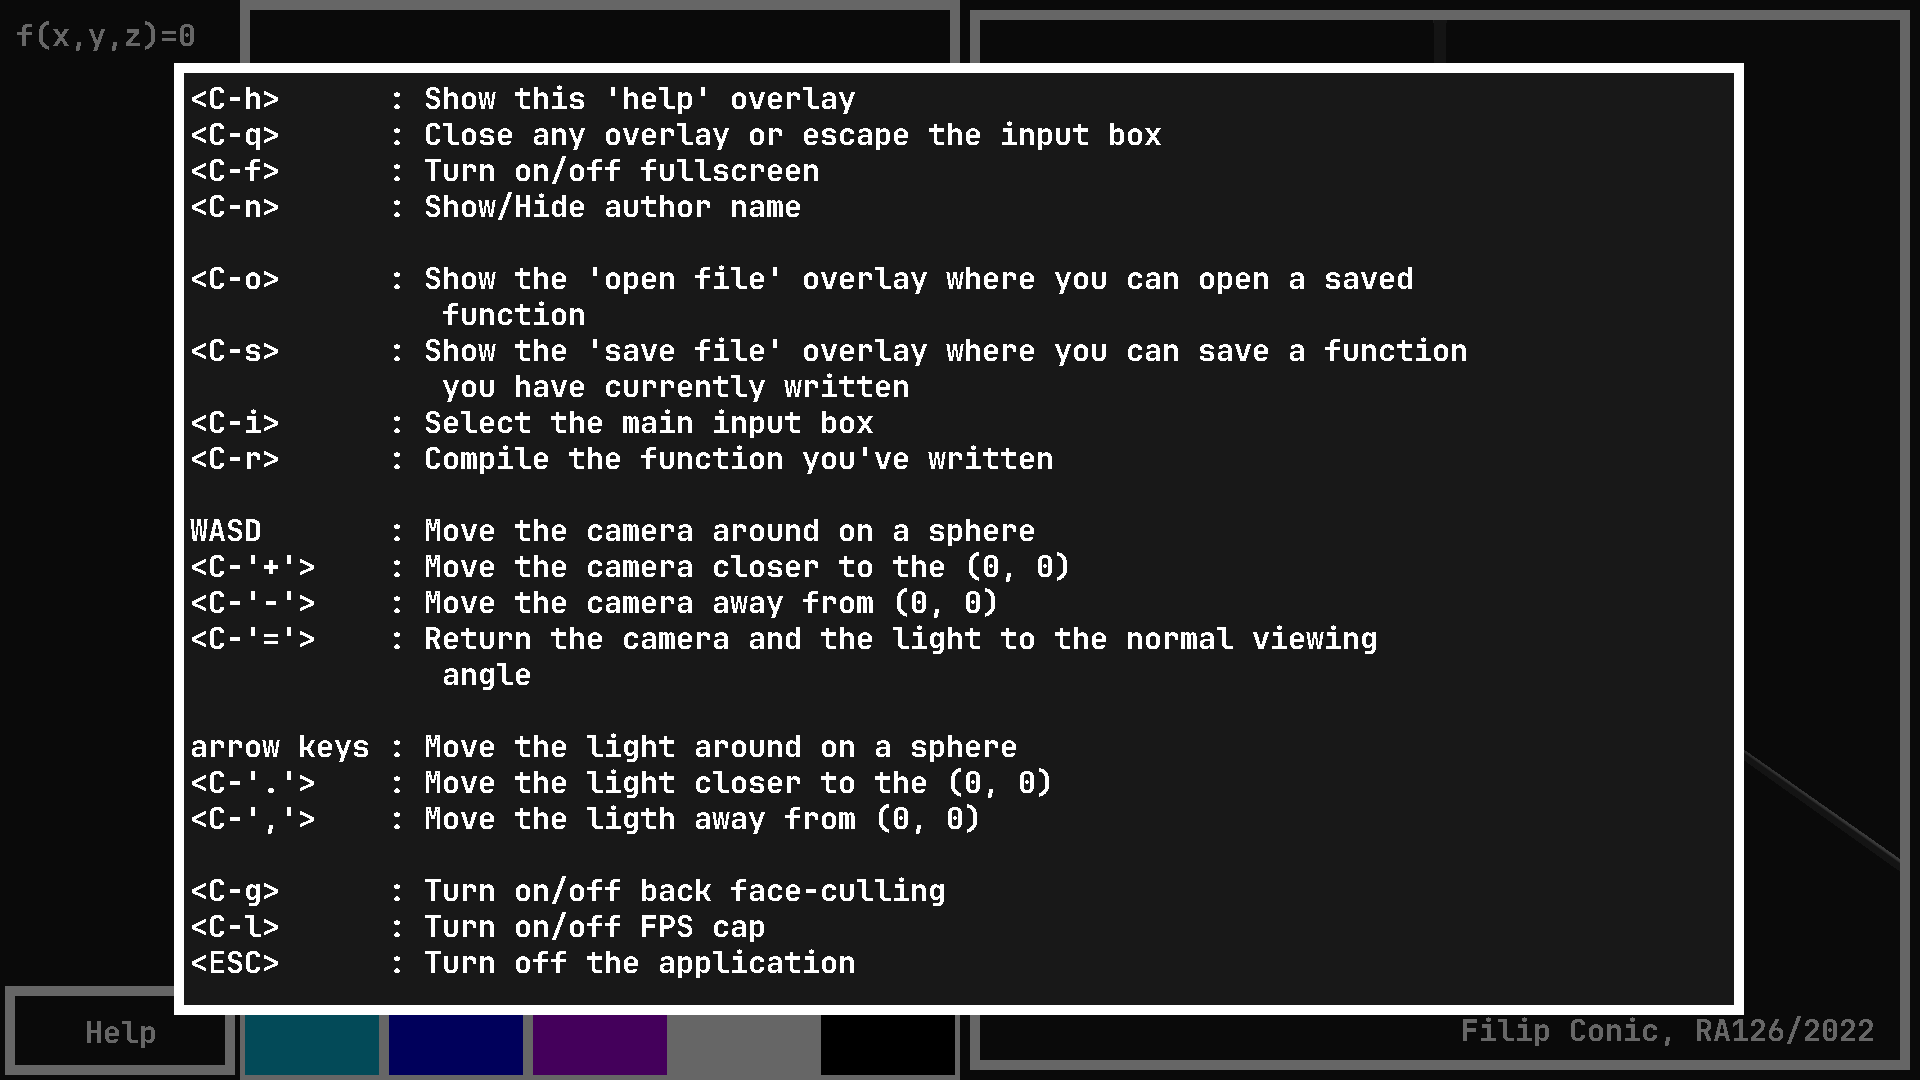
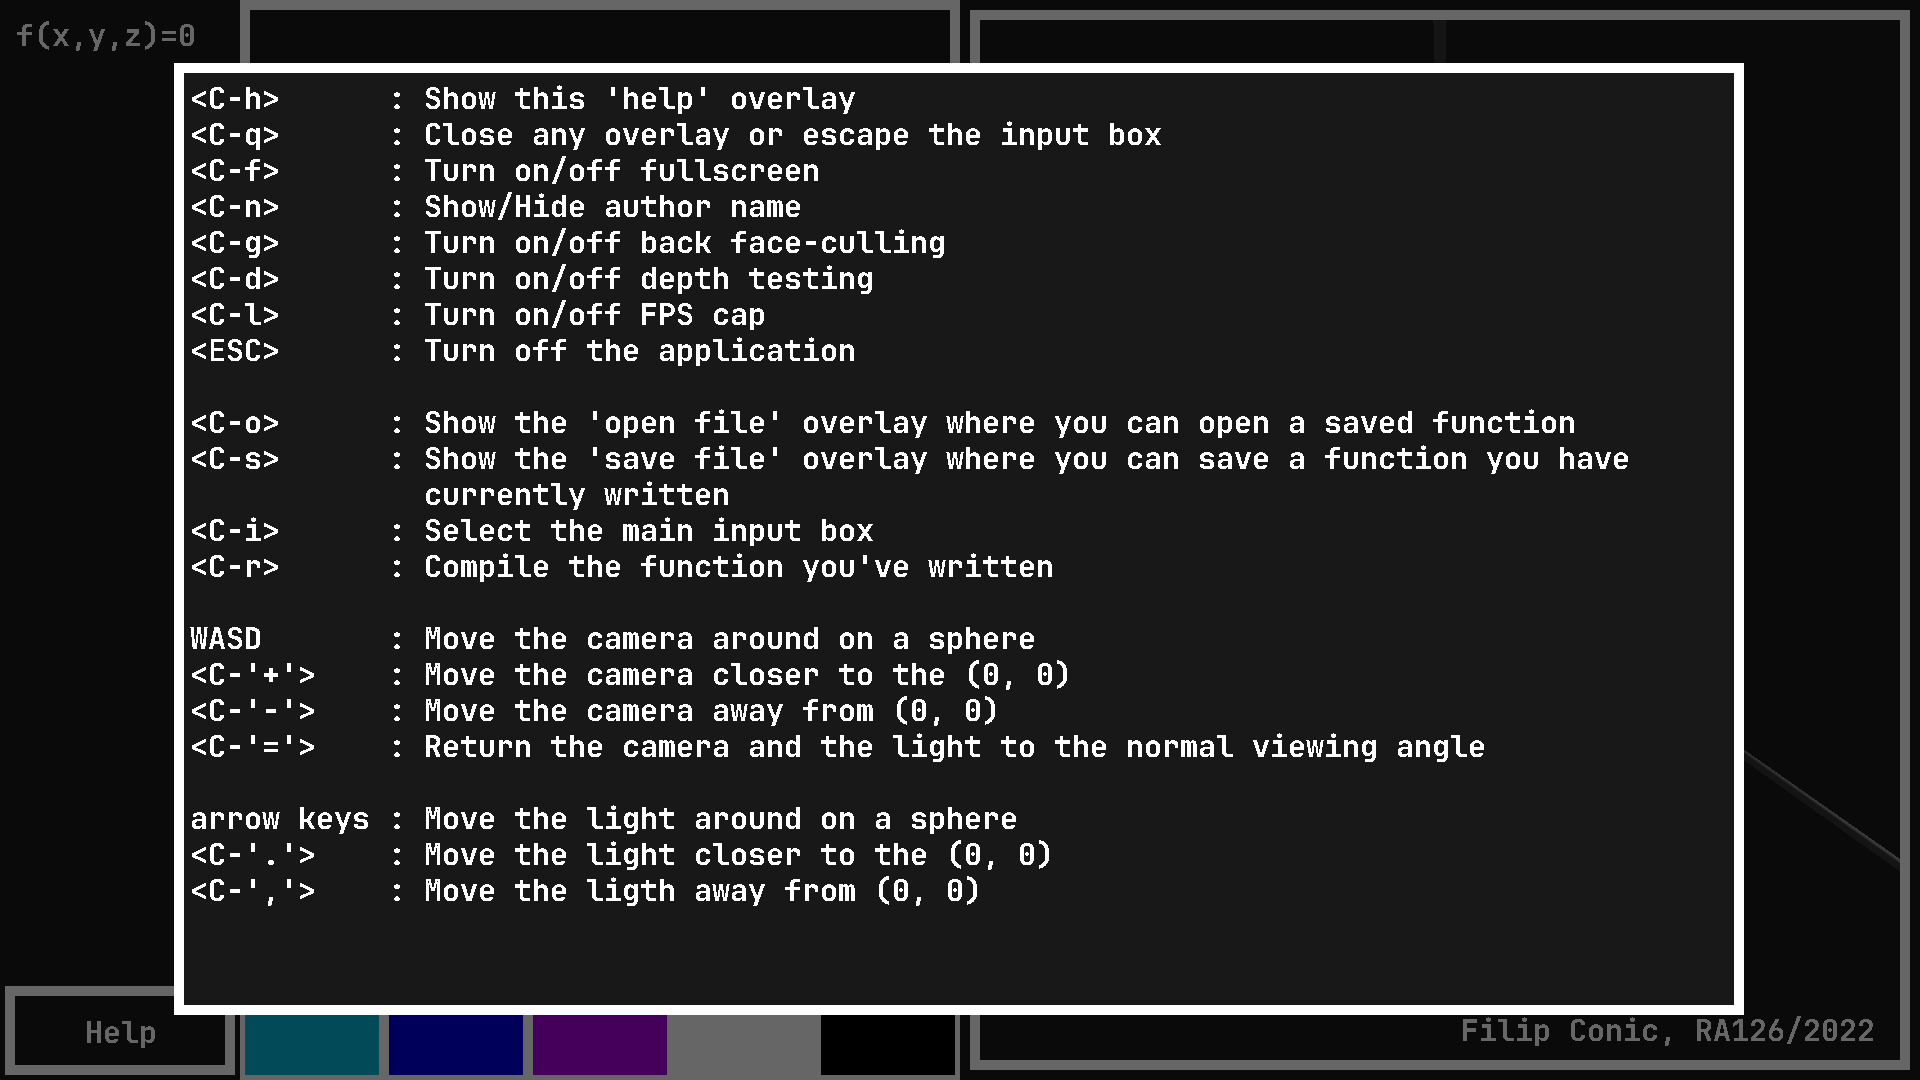
fixed a couple of things

diff --git a/srcs/main.c b/srcs/main.c
@@ -122,6 +122,7 @@ void main_setup(Context* ctx) {
 	);
 
 	grid_get_i(ctx, "cull_faces") = 1;
+	grid_get_i(ctx, "depth_test") = 1;
 
 	grid_list_start(ctx, "colors1"); {
 		grid_list_rect(ctx, 0, COLOR_RED, .border_color = COLOR_WHITE, .border_width = 5, .click_func = click_red);
@@ -175,6 +176,7 @@ void main_show(Context* ctx) {
 			grid_get_color(ctx, "light_color"),
 			.padding = 20,
 			.cull_faces = grid_get_i(ctx, "cull_faces"),
+			.depth_test = grid_get_i(ctx, "depth_test"),
 			.shininess = 128,
 			.reflectivity = 1.f,
 		);
@@ -189,6 +191,7 @@ void main_show(Context* ctx) {
 			grid_get_color(ctx, "light_color"),
 			.padding = 20,
 			.cull_faces = grid_get_i(ctx, "cull_faces"),
+			.depth_test = grid_get_i(ctx, "depth_test"),
 			.shininess = 128,
 			.reflectivity = 1.f,
 		);
@@ -204,6 +207,7 @@ void main_show(Context* ctx) {
 				grid_get_color(ctx, "light_color"),
 				.padding = 20,
 				.cull_faces = grid_get_i(ctx, "cull_faces"),
+				.depth_test = grid_get_i(ctx, "depth_test"),
 				.shininess = 128,
 				.reflectivity = 1.0f,
 			);
@@ -234,24 +238,23 @@ void main_show(Context* ctx) {
 								"<C-h>      : Show this 'help' overlay\n"
 								"<C-q>      : Close any overlay or escape the input box\n"
 								"<C-f>      : Turn on/off fullscreen\n"
-								"<C-n>      : Show/Hide author name\n\n"
-								"<C-o>      : Show the 'open file' overlay where you can open a saved\n"
-								"              function\n"
-								"<C-s>      : Show the 'save file' overlay where you can save a function\n"
-								"              you have currently written\n"
+								"<C-n>      : Show/Hide author name\n"
+								"<C-g>      : Turn on/off back face-culling\n"
+								"<C-d>      : Turn on/off depth testing\n"
+								"<C-l>      : Turn on/off FPS cap\n"
+								"<ESC>      : Turn off the application\n\n"
+								"<C-o>      : Show the 'open file' overlay where you can open a saved function\n"
+								"<C-s>      : Show the 'save file' overlay where you can save a function you have\n"
+								"             currently written\n"
 								"<C-i>      : Select the main input box\n"
 								"<C-r>      : Compile the function you've written\n\n"
 								"WASD       : Move the camera around on a sphere\n"
 								"<C-'+'>    : Move the camera closer to the (0, 0)\n"
 								"<C-'-'>    : Move the camera away from (0, 0)\n"
-								"<C-'='>    : Return the camera and the light to the normal viewing\n"
-								"              angle\n\n"
+								"<C-'='>    : Return the camera and the light to the normal viewing angle\n\n"
 								"arrow keys : Move the light around on a sphere\n"
 								"<C-'.'>    : Move the light closer to the (0, 0)\n"
-								"<C-','>    : Move the ligth away from (0, 0)\n\n"
-								"<C-g>      : Turn on/off back face-culling\n"
-								"<C-l>      : Turn on/off FPS cap\n"
-								"<ESC>      : Turn off the application\n",
+								"<C-','>    : Move the ligth away from (0, 0)\n",
 								.padding = 15
 								);
 					} grid_end(ctx);
@@ -389,6 +392,9 @@ void main_key(Context* ctx, char key, int value) {
 	if (!grid_get_i(ctx, "file_overlay_on")) {
 		if (ctx->key_info.ctrl_held) {
 			switch (key) {
+				case 'd': {
+					grid_get_i(ctx, "depth_test") = !grid_get_i(ctx, "depth_test");
+				} break;
 				case 'l': {
 					ctx->timer.fps_cap = !ctx->timer.fps_cap;
 				} break;

diff --git a/srcs/immediate.c b/srcs/immediate.c
@@ -256,6 +256,8 @@ void __grid_add(struct __GridAddParams params) {
 				showable->as.shape.light_color = params.light_color;
 				showable->as.shape.light_pos = params.light_pos;
 				showable->as.shape.pos = params.world_pos;
+				showable->as.shape.depth_test = params.depth_test;
+				showable->as.shape.face_cull = params.cull_faces;
 			} break;
 			default: assert(0 && "UNREACHABLE");
 		}
@@ -302,8 +304,10 @@ void __grid_add(struct __GridAddParams params) {
 				showable->as.shape.scale = params.scale;
 				showable->as.shape.shininess = params.shininess;
 				showable->as.shape.reflectivity = params.reflectivity;
-				showable->as.shape.face_cull = params.cull_faces;
 				showable->as.shape.pos = params.world_pos;
+
+				showable->as.shape.depth_test = params.depth_test;
+				showable->as.shape.face_cull = params.cull_faces;
 			} break;
 			default: assert(0 && "UNREACHABLE");
 		}

diff --git a/srcs/shapes.c b/srcs/shapes.c
@@ -132,8 +132,12 @@ void shape3d_show(Shape3D* shape, int x, int y, int w, int h, int screen_w, int 
 		glCullFace(GL_BACK);
 		glFrontFace(GL_CCW);
 	}
-
-	glViewport(x, y, w, h);
+	if (shape->depth_test) {
+		glEnable(GL_DEPTH_TEST);
+	} else {
+		glDisable(GL_DEPTH_TEST);
+	}
+glViewport(x, y, w, h);
 	glUseProgram(shape->program);
 
 	int uniform_proj = glGetUniformLocation(shape->program, "u_proj"); 
@@ -172,6 +176,9 @@ void shape3d_show(Shape3D* shape, int x, int y, int w, int h, int screen_w, int 
 	glViewport(0, 0, screen_w, screen_h);
 	if (shape->face_cull) {
 		glDisable(GL_CULL_FACE);
+	}
+	if (shape->depth_test) {
+		glDisable(GL_DEPTH_TEST);
 	}
 }
 void shape3d_free(Shape3D* shape) {

diff --git a/includes/shapes.h b/includes/shapes.h
@@ -54,6 +54,7 @@ typedef struct {
 	float reflectivity;
 	float shininess;
 	uint8_t face_cull : 1;
+	uint8_t depth_test : 1;
 } Shape3D;
 
 Shape3D shape3d_create(uint32_t program, Color color, float scale, uint32_t* indices, float* triangle_coords);

diff --git a/includes/immediate.h b/includes/immediate.h
@@ -188,6 +188,7 @@ struct __GridAddParams {
 	uint8_t center_y : 1;
 	uint8_t center : 1;
 	uint8_t cull_faces : 1;
+	uint8_t depth_test : 1;
 
 	Color color;
 	Color border_color;
